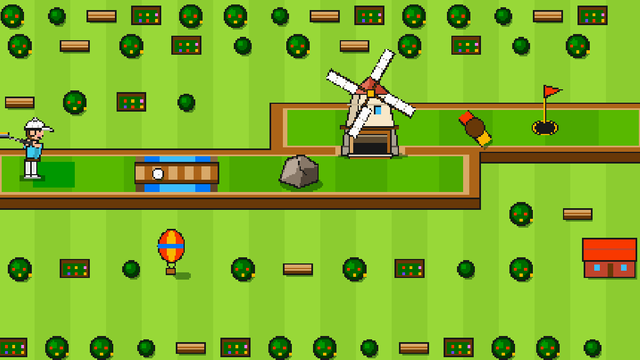
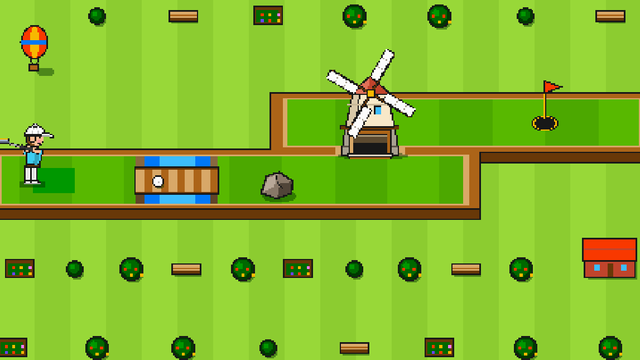
Mini Golf: no turning blades, calmer scenery, hole 5 has the windmill door in a wall, hole 4 has a ramp and a slide

diff --git a/docs/games/mini_golf.md b/docs/games/mini_golf.md
@@ -39,21 +39,21 @@ Rules and turns
 | REQ-MG-7 | **The winner** has the fewest strokes over all holes of the match. A tie is shown as a tie. The end is `open_results()` (REQ-GM-72) with the strokes as the score (fewer is better) and Try again, New game, Back to menu. | Done | smoke_golf |
 | REQ-MG-8 | **Pick up after 6 strokes.** When a player has played 6 strokes on a hole and the ball is not in, the ball is picked up with a soft message and the hole counts as 6 for that player. The player waits for the others. | Done | run_tests |
 | REQ-MG-9 | **Water.** A hole can have a lake that goes from one wall to the other, with a bridge over it. A ball that touches the water (not the bridge) makes a small splash, stops, and goes back to the place of the last putt (the putt counts as a stroke). Nothing more is taken away. | Done | run_tests |
-| REQ-MG-10 | **Edges.** A strong putt with a bad direction can leave the green. The wall brings the ball back (a bounce); the ball never leaves the course. A **hill** (owner, 2026-11-04) is a smooth bump across the whole width of the course, 0.12 m high in the middle (`hills` in `golf_holes.gd`): a ball that climbs it slows down (true physics, g = 9.8 m/s2, so a putt needs about 1.8 m/s at the foot to get over), a putt that does not make it rolls back down, and a ball that goes over speeds up again on the way down; the ball and the golfer are lifted by the height of the ground and the aim dots follow it. Holes 1, 3 and 5 have one. The windmill tower has a **door** that the ball goes through (owner, 2026-11-04: the idea of the windmill is a door the ball goes through, on the path to the hole): the tower is two pillars with a door of 0.30 m between them, the ball goes through the door along the across axis (up or down the screen), the door faces the camera, and the ball goes behind the door while it is inside the tower (hole 2: the near row and the far row are joined only by this door; hole 5: the door is in the middle of the tower). The windmill tower (its pillars), rocks and the turning blades (a bar that turns around its middle) are obstacles that bounce the ball. **There are no brick walls and no sliding barriers (owner, 2026-11-04: removed, and the holes were redone).** The turning blades are slow and short enough to pass: the free lane beside their circle is at least 0.2 m wide, and they turn at 2 rad/s or less (hole 2: 0.28 m long, 1.0 rad/s). Nothing is taken away for a bounce. | Done | run_tests |
+| REQ-MG-10 | **Edges.** A strong putt with a bad direction can leave the green. The wall brings the ball back (a bounce); the ball never leaves the course. A **hill** (owner, 2026-11-04) is a smooth bump across the whole width of the course, 0.12 m high in the middle (`hills` in `golf_holes.gd`): a ball that climbs it slows down (true physics, g = 9.8 m/s2, so a putt needs about 1.8 m/s at the foot to get over), a putt that does not make it rolls back down, and a ball that goes over speeds up again on the way down; the ball and the golfer are lifted by the height of the ground and the aim dots follow it. Holes 1, 3 and 5 have one. The windmill tower has a **door** that the ball goes through (owner, 2026-11-04: the idea of the windmill is a door the ball goes through, on the path to the hole): the tower is two pillars with a door of 0.30 m between them, the ball goes through the door along the across axis (up or down the screen), the door faces the camera, and the ball goes behind the door while it is inside the tower (hole 2: the near row and the far row are joined only by this door; hole 5: the same, in a wall across the second leg of the S). The windmill tower (its pillars) and the rocks are obstacles that bounce the ball. **There are no brick walls, no sliding barriers and no turning blades (owner, 2026-11-04: removed, and the holes were redone).** Nothing is taken away for a bounce. | Done | run_tests |
 | REQ-MG-11 | A player who leaves: the golfer and the ball go away, the turn goes to the next player, and the strokes stay in the result. When nobody is left the "No players connected" menu opens (REQ-GM-22). A lost phone pauses the game (REQ-GM-30). A phone that comes back keeps its slot (REQ-GM-30a). | Done | smoke_golf |
 
 Holes and settings
 
 | ID | Requirement | Status | Check |
 |----|-------------|--------|-------|
-| REQ-MG-12 | **Holes.** The game has **5 holes**, made in advance (pre-generated and saved as data, not made at run time). **Holes redone (2026-11-04, owner):** hole 1 is a hill and a rock; hole 2 two wide rows (1.1 m) joined by the windmill door, with a small rock and slow short blades; hole 3 a hill, a turn to the right, a rock and turning blades before the cup; hole 4 is unchanged (lake, bridge, rocks, blades); hole 5 an S with a hill, the windmill and blades. The brick walls and the sliding barriers are gone. **Hole 2 (2026-11-04):** two rows with a wall between them: the tee and a lake with a bridge in the near row, then the door of the windmill (the only way up into the far row), the turning blades and the cup in the far row (par 3). The settings view (REQ-GM-90) has a row "Holes" with 1 to 5 (default 3) and the Difficulty row. A match of N holes plays holes 1 to N in order. Every hole has its own par (2 to 4). The holes did not change with the new view (the data in `golf_holes.gd`, the sizes in course units: the longest hole, 5, is 3.3 by 5.5 course units with its walls and fits one screen at 250 px for a course unit). | Done | run_tests (hole data), smoke_golf |
+| REQ-MG-12 | **Holes.** The game has **5 holes**, made in advance (pre-generated and saved as data, not made at run time). **Holes redone (2026-11-04, owner):** hole 1 is a hill and a rock; hole 2 two wide rows (1.1 m) joined by the windmill door, with a small rock; hole 3 a hill, a turn to the right and a rock; hole 4 a lake with a bridge, two rocks, and a ramp up to a platform and a slide down (a `slide` hill, 0.14 m high) just before the cup; hole 5 an S with a hill and a rock in the first leg and a wall across the second leg with the windmill door in it (the only way down to the cup). The brick walls, the sliding barriers and the turning blades are gone. **Hole 2 (2026-11-04):** two rows with a wall between them: the tee and a lake with a bridge in the near row, then the door of the windmill (the only way up into the far row), the turning blades and the cup in the far row (par 3). The settings view (REQ-GM-90) has a row "Holes" with 1 to 5 (default 3) and the Difficulty row. A match of N holes plays holes 1 to N in order. Every hole has its own par (2 to 4). The holes did not change with the new view (the data in `golf_holes.gd`, the sizes in course units: the longest hole, 5, is 3.3 by 5.5 course units with its walls and fits one screen at 250 px for a course unit). | Done | run_tests (hole data), smoke_golf |
 | REQ-MG-13 | **Difficulty changes the help for aim and power only** (REQ-GM-96; all players have the same difficulty). Easy: a long aim line, and a weak swing still reaches a nearby hole. Medium: a short aim line. Hard: no aim line, only a small marker on the ground. The courses are the same on every difficulty. | Device | run_tests, golf_view (the length of the line), Device (Test 26 step 16e) |
 | REQ-MG-14 | **Medals** (REQ-GM-73): 1 player gets no medal (the tiers by strokes over par were removed, issue #119). For 2 to 4 players each row has the medal of its place. | Done | run_tests |
 | REQ-MG-15 | **No personal best in this version.** The key table of the profile (`profile_keys.gd`) has a limited size, and the saved number would be strokes (fewer is better). `best_key()` returns "". A key `mini_golf|<difficulty>|<holes>` can be added later. | Done | smoke_golf (`best_key()`) |
 | REQ-MG-16 | The golfer is a friendly kid with a white cap, white trousers and shoes and a shirt in the slot color, seen from the side and a little from above, facing the cup. He is small (about 160 px high, one size on every hole), stands left of the ball of the player on turn with the putter head at the ball, and stays where the putt started while the ball rolls. His swing is the same (`golf_look.gd` `aim_pose()` and `swing_pose()`). A full swing is animated: address, backswing (when the direction locks), downswing, hit, follow-through and finish, mixed smoothly. The putter has a dark grip, a steel shaft and a steel head with a gold top line. The animation is played by the TV when the swing is found; it is not a live copy of the arm (the detector reports a swing a few samples after the hit). The ball starts at once, and the phone buzzes (30 ms, a strong putt 60 ms). | Device | smoke_golf, Device (Test 26 steps 16f, 16g) |
 | REQ-MG-17 | Safety (REQ-GM-102, issue #79): Mini Golf is a swing game (`swing` in the registry). The settings view shows the safety line, each phone shows the card "HOLD ON TIGHT!" every time the settings view opens, and Start waits for the OK of every phone. | Done | swing_setup, ui_states_a |
 | REQ-MG-18 | **The view (2026-11-03, owner decision, `docs/MINI_GOLF_REDESIGN.md` option A; tilted on 2026-11-04).** The course is seen from the tee at the left to the cup at the right (hole 3 turns down) by a camera that is tilted, not straight above (owner, 2026-11-04, `GolfLook.TILT` 0.36): across the course (down the screen) every length is squashed to 0.36 of its length along the course, the wall slab is 0.09 course units high and shows its front face below the near edges, the windmill tower (0.62, a stone base with a door (a wooden frame and a stone step round a dark opening), a cream wooden tower with windows and a balcony, a red cap and four lattice sails in front of its top; redrawn 2026-11-04, the door and the sails are only a picture) and the rocks stand up from the ground, the cup is an ellipse, and the obstacles, the golfer and the ball are drawn from far to near (the flag and the aim line stay on top). The first hole was built first; the other holes use the same code and are to be checked on the screen. Each hole is scaled **once** (`GolfLook.Geo`): the whole hole with its walls is inside the 60 px margin, under the black bar (112 px) and above the chips of the bar (the room is 1800 by 820 px with one row of chips, 748 px with two), and one side of it fills the room; the scale is at least 200 px for a course unit (hole 3, the smallest, is 211). There is no perspective and no zoom: a course unit is as long near the tee as at the cup along the course (and 0.36 of it across), so nothing changes size while the players putt. The obstacles had no height until 2026-11-04 (owner, 2026-11-03: the front faces did not look right from straight above); now the tilt shows them: a rock is a grey boulder with a light and a dark side and a crack, a hill is a green bump across the course with a light side that rises, a dark side that falls and a cut at the near end, the flag is drawn on top of every obstacle so that the tower never hides it, a windmill its roof with blades that stay inside the block (the block is what the ball hits). The ball is **32 px** wide with its outline, an exception to REQ-GM-47m for this game (owner, 2026-11-03: 48 was too big; the cup is 64 px) on every hole, the cup is at least 8 px wider than the ball (it is the real cup of 0.2 course units, and never smaller than 64 px), the golfer is one size. The simulation, the rules and the hole data do not know the view. | Device | golf_view, smoke_golf_phones, Device (Test 26 steps 14d, 14e) |
-| REQ-MG-19 | **The park.** Scenery stands round the course as a border, smaller than before: trees, flower beds and benches along the free edges of the screen, and on a hole with room (holes 3 and 5) a clubhouse and a hot air balloon. It stands only outside the walls (44 px apart), never under the black bar or the chips, and never hides the course. The ground is the same for every hole; the course is drawn from the hole data (walls, mown stripes, tee mat, lake with stones, bridge, cup with a gold rim and a flag at its rim, rocks, hills, the windmill and turning blades) and is never mirrored in Hebrew (REQ-GM-47o). | Done | golf_view (the scenery), r4_golf |
+| REQ-MG-19 | **The park.** Scenery stands round the course as a border, smaller than before: trees, flower beds and benches along the free edges of the screen, and on a hole with room (holes 3 and 5) a clubhouse and a hot air balloon. It stands only outside the walls (44 px apart), never under the black bar or the chips, and never hides the course. The ground is the same for every hole; the course is drawn from the hole data (walls, mown stripes, tee mat, lake with stones, bridge, cup with a gold rim and a flag at its rim, rocks, hills and the windmill) and is never mirrored in Hebrew (REQ-GM-47o). | Done | golf_view (the scenery), r4_golf |
 
 ## Parameters
 
@@ -78,7 +78,6 @@ The song `mini_golf` starts with the first turn (no countdown, REQ-GM-35): a rel
 | REQ-MG-S1 | `golf_turn` | A turn starts. | Two soft notes | 60 ms for the player on turn |
 | REQ-MG-S2 | `golf_putt` | The ball is hit. | Soft "tok" | 60 ms for a hard putt (power above 0.6), 30 ms for a soft one |
 | REQ-MG-S3 | `golf_wall` | The ball touches a wall, a rock or a pillar of the windmill. | Quiet tok | none |
-| REQ-MG-S4 | `golf_blade` | The ball touches a turning blade. | Short rising blip | none |
 | REQ-MG-S5 | `golf_splash` | The ball falls in the lake. | Funny splash | none |
 | REQ-MG-S6 | `golf_hole` | The ball goes in the cup. | Rising three notes | 80 ms |
 | REQ-MG-S7 | `golf_ace` | A hole in one. | Rising six notes, brighter | 200 ms |

diff --git a/docs/AUTOMATED_TESTS.md b/docs/AUTOMATED_TESTS.md
@@ -317,7 +317,7 @@ Neither system has an Android job (the Actions job `build-android` exported noth
 | A-26-4a, 4b, 4d | Test 26 items 4a, 4b, 4d, the aim follows the turn, RECENTER, the turn before the turn starts | `smoke_golf_phones`: "20 degrees to the right aims +N rad, 20 degrees to the left aims N rad (4a)", "RECENTER: the aim of N rad is straight again after 0.5 s (4b)", "a phone turned N rad before its turn aims straight when the turn starts (4d)" |
 | A-26-5a, 5c, 5d | Test 26 items 5a, 5c, 5d, the putt power, one buzz for each putt, small moves | `smoke_golf_phones`: "soft < medium < hard in N of 5 groups by speed; soft rolls less than medium in N of 5 (hard reaches the end wall) (5a)", "5 putts buzz the phone 5 times (N) (5c)", "10 slow moves (1.5 m/s2) give no stroke and no lock (5d)" |
 | A-26-6a to 6c | Test 26 items 6a to 6c, the order of the turns, the balls that wait, a player that is in | `golf_rules`: "the turns go round in slot order", "a ball that is in leaves the round" (golf_rules), "the player who is in is skipped: 1, 3, 1 ..."; `smoke_golf`: "the next phone putts from the tee: every player has a ball of their own (REQ-MG-2)", "the ball of phone 1 waits where it stopped" |
-| A-26-7a to 7c, 7e, 7f | Test 26 items 7a to 7c, 7e, 7f, walls, rocks, the pillars of the windmill, hills, turning blades, the lake and the bridge | `golf_rules`: "hole N: a ball shot at the rock at (x, y) bounces from it", "hole N: a ball shot at the (brick wall or windmill block) bounces from it", "hole N: the ball never leaves the ground or enters a block", the rocks on 6 places and the blocks on holes 1, 2, 3, 5 / windmills on 2, 5, "hole N: the blade bounces the ball in N of 24 positions of the blade", "a ball that touches the lake stops with a splash (REQ-MG-9)", "a ball that rolls over the bridge crosses the lake (REQ-MG-9)", "hole N at time T: the cup is reachable in N strokes (par N)"; `smoke_golf`: "a ball in the water counts the stroke, goes back to the last spot and shows a splash (REQ-MG-9)"; `smoke_golf_phones`: "the banner of the water is 'SPLASH! TRY AGAIN FROM HERE' (7e)" |
+| A-26-7a to 7c, 7e, 7f | Test 26 items 7a to 7c, 7e, 7f, walls, rocks, the pillars of the windmill, hills, the ramp and the slide, the lake and the bridge | `golf_rules`: "hole N: a ball shot at the rock at (x, y) bounces from it", "hole N: a ball shot at the (brick wall or windmill block) bounces from it", "hole N: the ball never leaves the ground or enters a block", the rocks on 6 places and the blocks on holes 1, 2, 3, 5 / windmills on 2, 5, "hole N: the blade bounces the ball in N of 24 positions of the blade", "a ball that touches the lake stops with a splash (REQ-MG-9)", "a ball that rolls over the bridge crosses the lake (REQ-MG-9)", "hole N at time T: the cup is reachable in N strokes (par N)"; `smoke_golf`: "a ball in the water counts the stroke, goes back to the last spot and shows a splash (REQ-MG-9)"; `smoke_golf_phones`: "the banner of the water is 'SPLASH! TRY AGAIN FROM HERE' (7e)" |
 | A-26-8a, 8b, 8d, 8e | Test 26 items 8a, 8b, 8d, 8e, the pars, the words, the hole card and the next hole | `golf_rules`: "the five holes have the pars 2, 3, 3, 3 and 4 (8a)", "the words fit the par of the hole: par 2, par 4", "a hole in one is said", "one under par is a birdie", "par and bogey", "two over par or more has no words, only the number"; `smoke_golf_phones`: "the top right text of the 5 holes (8a)", "the card says 'Hole 1 done!' with 1 and 2 strokes and the totals 1 and 2 (8d)", "the card goes on to the next hole by itself after 4.0 s (8e)", "the totals go on to hole 2" |
 | A-26-9a to 9d | Test 26 items 9a to 9d, the help of Easy, Medium and Hard | `smoke_golf_phones`: "the aim line is N course units on Easy, Medium, Hard: Easy at least twice Medium, Hard has none (9a)", "'SWING FORWARD...' shows after the lock on Easy only (9b)", "the weakest swing rolls N m on Easy and N m on Medium (5 swings each): Easy at least twice (9c)", "hole 1 is the same on every level (9d)" |
 | A-26-10b | Test 26 item 10b, the medal of a 3 hole match alone | `smoke_golf_phones`: "8, 9, 11, 12, 14 and 15 strokes over 3 holes are the score of the player (10b)"; no medal for one player: A-11-7 |
@@ -397,7 +397,7 @@ Neither system has an Android job (the Actions job `build-android` exported noth
 | A-25-10c | Test 25 item 10c | `smoke_tennis_phones`: the round is 90 s and the result menu opens 2.2 s later (88 to 92 s after GO) |
 | A-26-3a, 3b, 3c, 3d | Test 26 items 3a, 3c, 3d and the shirt of 3b | `r4_golf`: at the start of a turn the course shows 1 golfer and 1 white ball with no ring and no halo, the ball of the player on turn only (also on the turn of phone 2); the shirt has the color of the phone on turn; the plate "<NAME>'S TURN!" covers neither the cup with its flag nor a ball (REQ-MG-3); the plate shows 1.0 to 2.0 s (it is `TURN_BANNER`, 1.5 s); the phone on turn shows "YOUR TURN" and the other phone "<NAME> IS PUTTING". The cap, the trousers and the shoes stay in 3b2 |
 | A-26-4c, 5b | Test 26 items 4c, 5b | `r4_golf`: the aim mark turns gold at the back swing (4c); the golfer swings back and through, and the ball starts to move at the hit (5b). Known bug (5b): the ball starts to move at swing age 0 while the club reaches it at 0.12 s, so that check fails |
-| A-26-7d | Test 26 item 7d | `r4_golf`: the turning blades of holes 2 to 5 leave a free lane of 0.2 m beside their circle and turn at 2 rad/s or less; the blades of hole 2 are short and slow (the sliding barriers were removed on 2026-11-04) |
+| A-26-7d | Test 26 item 7d | none: the sliding barriers and the turning blades were removed on 2026-11-04 (the checks of the gap and of the free lane went with them) |
 | A-26-8c, 8f | Test 26 items 8c, 8f | `r4_golf`: after the 6th stroke the banner "Picked up after 6 strokes" shows; the number in the bar equals the strokes counted by hand after every putt |
 | A-26-10a, 10c, 10d | Test 26 items 10a, 10c, 10d | `r4_golf`: the result menu of a match with 2 phones names the player with the fewest strokes ("<NAME> wins!", or "Tie!") and lists the players in the order of the strokes; Try again starts hole 1 with 0 strokes for every player; New game opens the settings view and Back to menu (on the next result menu) opens the Games screen |
 | A-MG-18, 19 | REQ-MG-2, 3, 4, 18, 19 (the view from above, 2026-11-03; what only a TV shows stays in Test 26 steps 14d and 14e) | `golf_view`: "hole N, R row(s) of chips: the course is inside x 60 to 1860 and y 112 to the chips" and "one side of the course fills the room" for the 5 holes with one and with two rows of chips; "a course unit is as long near the tee, far from it and across"; "the ball is 32 units wide and the cup wider"; "on a screen of half the size everything is half as big"; "the aim line of 3.0 and 1.2 course units is that long at the tee and near the cup", "Hard has the marker only", "stops at the wall"; "the ball is white, has no ring of a slot color and no halo, and is one ball wide"; "the plate covers neither the cup nor a ball nor the golfer" on every hole; "none of the park is on the course or in the bar or the chips", "the clubhouse and the balloon on holes 3 and 5"; `smoke_golf_phones`: "the golf ball is 32 units at 1080p on every hole, and the cup is wider"; "3 degrees from the cup the aim snaps to the cup", "14 degrees from the cup the aim does not snap", "A locks the aim: a turn of 25 degrees changes nothing", "a second press on A unlocks it", "an A that is held from before is not a press", "a press on A during the back swing does nothing" (REQ-MG-4), "only the ball of the player on turn is on the course"; `golf_rules`: "the ball and the aim mark stand on the 4-unit grid" |
@@ -515,7 +515,7 @@ a real device, but they make a regression show in CI before a person sees it. Th
 | `smoke_tennis_phones` | Tennis with simulated phone traces (2 and 4 phones): no name tags, no countdown with 2 players, the 3 s countdown alone, the hint line, the serve, the ring and the glow on the 3 levels, the banners, the 4-player scoreboard and places, the solo machine and its 90 s |
 | `smoke_golf_phones` | Mini Golf with simulated phone traces (2 phones): no name tags, the bar, the aim, the lock, RECENTER, the putt power, the buzzes, the help of the 3 levels, the 5 holes, the card, the medals and the pause |
 | `tennis_rules` (extended) | The chain from a sensor trace to the ball (serve, forehand, push, wide swing, 30 degree swings), the width of the green part, the power, Easy never out, the doubles court, the medal tiers |
-| `golf_rules` (extended) | Walls, rocks, the windmill with its door, hills and blades on every hole, a search that every hole can be played (hole 2 through the door), the pars, the words and the 6-stroke pick up |
+| `golf_rules` (extended) | Walls, rocks, the windmill with its door, hills and slides on every hole, a search that every hole can be played (holes 2 and 5 through the door), the pars, the words and the 6-stroke pick up |
 | `golf_view` | The view of Mini Golf without a screen (REQ-MG-18, 19): one scale for each hole, the hole inside the room between the black bar and the chips, one size for the ball and the cup, the length of the aim line, balls that lie on each other drawn apart, the banner plate away from the cup, the park outside the course |
 | `sheep_rules` (unit), `smoke_sheep` (scenario) | Sheep Herding: the fence and the gate, the flee, graze and flock rules, the pen, the scenery, the pictures, the difficulty table; then settings, start, tilt, shared score, team chip, the end, solo medals, a player that leaves, the layout and Restart |
 | `bumper_rules` (unit), `smoke_bumper_cars` (scenario) | Bumper Cars: the rink sizes and star counts of the difficulties, the start places, the stars on the floor and the new stars, whether a bump is a hit (the speed limit; a hit takes no star), the pick-ups, the pictures (star, cars in 4 directions, shadow, contrast); then settings (2 to 4 players), start, countdown, tilt, picking up a star, hits and their buzz and sounds, the pair gap, the end and the tie, a player that leaves, the layout and Restart |
@@ -538,7 +538,7 @@ a real device, but they make a regression show in CI before a person sees it. Th
 | `r4_asteroid` (tv) | Star Shield: the ship at both sides of the play area, "Reached wave N". One known-bug check (the 2 % to 4 % edge) |
 | `r4_bowling` (tv) | Pin Pals: the total of whole games, Frame 10/10 and the time to the result menu, rails, the plate, scores and places, the winner, YOUR TURN and the buzz, a player that leaves, the pin height and the disco wall. Three known-bug checks (3.8 s, the plate time, the double buzz) |
 | `r4_tennis` (tv) | Tennis: no chip before the first point, the toss, the runs, GREAT!, far shots, the places, the rally count. The sparks, the place of the other team and the time to a new rally are plain checks |
-| `r4_golf` (tv) | Mini Golf: what is drawn at a turn, the plate, the lines on two phones, the aim mark, the swing, the free lane beside the blades, the 6-stroke banner, the strokes in the bar, the result menu and its buttons. One known-bug check (the ball starts too early) |
+| `r4_golf` (tv) | Mini Golf: what is drawn at a turn, the plate, the lines on two phones, the aim mark, the swing, the 6-stroke banner, the strokes in the bar, the result menu and its buttons. One known-bug check (the ball starts too early) |
 | `pixel_games` (render lane, NOT in `tests/suites.txt`, no coverage) | Tests 22, 23, 25, 26: the main colors of the 4 newest tiles are colors of the game screen, and the Star Shield world is made of whole pixels. Run it like `pixel_render` under `xvfb-run` at 1920x1080. CI: the job `pixels` runs it after `pixel_render` |
 
 ## What stays manual, and why

diff --git a/docs/MANUAL_TESTS.md b/docs/MANUAL_TESTS.md
@@ -102,7 +102,7 @@ Tests the user has to run now (status on 2026-11-01 after run R5; the list is in
 | 29 | **New game.** Sheep Herding with 1 to 4 phones: the tile against the game, a tester points at the gate, an adult herds all the sheep in the time (4 and 6a), the FPS with 1 phone on the TV box, a child of 5 to 8 years, the how-to line, the Hebrew texts. The tilt times, how the sheep run, the buzz and the dog size are automated (A-29-*) | Sheep Herding was added on 2026-10-23 (`docs/games/sheep_herding.md`, issue #98). Needed before it is merged. All values (dog speed, the scare distance, the sheep speed, the gate, the time of a round), the pictures, the song and the Hebrew texts are first guesses; a Hebrew reader checks the 7 new texts |
 | 28 | **New game.** Whack-a-Mole with 1 to 4 phones: the tile against the game, a tester points at the holes and the golden mole, the delay of a bonk at 240 fps (4b), the settings view, the FPS with 1 phone on the TV box, a child of 5 to 8 years, the pixel look from the sofa. The ring on the 9 holes, the bonk, a miss, the time a mole stays, the golden mole and the medals are automated (A-28-*) | Whack-a-Mole was added on 2026-10-23 (`docs/games/whack_a_mole.md`). Needed before it is merged. All values (the stay, the spawn time, the hit circle, the points), the pictures, the song and the Hebrew texts are first guesses |
 | 27 | **New game and the first bot.** Air Hockey with 1 to 4 phones: the tile against the game, the delay of the mallet at 240 fps (3b), the pixel look, the dark gray rails on the black floor (11d) and the black puck from the sofa, a grown-up against ROBO on Easy (5 matches) and Hard (3 matches), the FPS with 1 phone on the TV box, a child of 5 to 8 years, Hebrew. The enroll screen, the tilt, the puck, the goals, ROBO's purple color, a lost phone and the result menus are automated (A-27-*) | Air Hockey and ROBO were added on 2026-10-23 (`docs/games/air_hockey.md`, REQ-GM-105, 106). Needed before they are merged. All values (the mallet and puck physics, the goal size, the levels of ROBO), the pictures, the song, the effects and the Hebrew texts are first guesses |
-| 26 | **New game.** Mini Golf with 1 to 4 phones: the aim by turning the phone and its lock at the back swing, the power of soft, medium and hard putts and the delay, the turns, the 5 holes (walls, rocks, hills, turning blades, windmill with a door, lake and bridge), the words (birdie, par, bogey, hole in one, picked up), Easy, Medium and Hard help, the medal, a player that leaves, a child of 5 to 8 years, the pixel look from the sofa, the view from above, the white ball of the player on turn (steps 14d and 14e, new on 2026-11-03), light swings (step 16j, 2026-11-03) | Mini Golf was added on 2026-10-17 (`docs/games/mini_golf.md`); its view was redesigned on 2026-11-03 (`docs/MINI_GOLF_REDESIGN.md`). Needed before it is merged. It uses the swing detector of tests 23 and 24, so run test 24 first. All values (swing thresholds, putt speeds, friction, the hole designs), the pictures, the song and the Hebrew texts are first guesses |
+| 26 | **New game.** Mini Golf with 1 to 4 phones: the aim by turning the phone and its lock at the back swing, the power of soft, medium and hard putts and the delay, the turns, the 5 holes (walls, rocks, hills, a ramp and slide, windmill with a door, lake and bridge), the words (birdie, par, bogey, hole in one, picked up), Easy, Medium and Hard help, the medal, a player that leaves, a child of 5 to 8 years, the pixel look from the sofa, the view from above, the white ball of the player on turn (steps 14d and 14e, new on 2026-11-03), light swings (step 16j, 2026-11-03) | Mini Golf was added on 2026-10-17 (`docs/games/mini_golf.md`); its view was redesigned on 2026-11-03 (`docs/MINI_GOLF_REDESIGN.md`). Needed before it is merged. It uses the swing detector of tests 23 and 24, so run test 24 first. All values (swing thresholds, putt speeds, friction, the hole designs), the pictures, the song and the Hebrew texts are first guesses |
 | 25 | **New game.** Tennis with 1 to 4 phones: the two-phase swing (back, then forward; step 16h, 2026-11-03), the safety card with 3 children of 5 to 8 years (15c, 2026-10-30), toss with A and a serve swing from top to bottom, the hit window (the ring on the court, green and yellow, early and late swings), power and left or right aim, the characters that run by themselves, the ball and its shadow from the sofa, Real and Quick scoring, 2 against 1 and 2 against 2, the machine rally alone (medals), a player that leaves, a child of 5 to 8 years | Tennis was added on 2026-10-17 (`docs/games/tennis.md`). Needed before it is merged. It uses the swing detector of tests 23 and 24, so run test 24 first. All values (the hit window, the green zone, the ball speeds), the pictures, the song and the Hebrew texts are first guesses |
 | 24 | **New (swing detector for Tennis).** Debug overlay with 1 to 2 phones: no swing when still or walking, strokes (back, then forward) found with a power that grows from soft to hard, a serve from top to bottom says DOWN and a stroke from left to right does not, one swing for swing and back, a tap or shake is not a swing (also a sideways move or a slow shake, which the forward ratio rejects since 2026-10-29, issues #141 and #142), a sharp push counts, the side value of a swing to the left and to the right, the delay in ms, an iPhone | The Pin Pals swing detector was moved to `scripts/input/` and used for Tennis on 2026-10-17 (`docs/games/tennis.md`, REQ-TN-5 to 9). Needed before Tennis is built on it. Every threshold and the forward ratio (`FWD_RATIO`, 2026-10-29) is a first guess and is tuned from this test |
 | 23 | **New game.** Pin Pals (bowling) with 1 to 4 phones: the aim strip (a finger slides the ball, changed 2026-10-20), the swing that throws (different grips, a soft swing, a hard swing, accidental throws; changed 2026-10-29, issues #141 and #142: a sideways move or a slow shake must not throw, a soft swing must, by the forward ratio of REQ-BW-5 and REQ-BW-6), the knob, trail and tick of the aim strip (3h, 2026-10-30), the standard rules and the score sheet, Rails, the wait with 4 players, a leave and a lock during a turn, a child of 5 to 8 years, the pixel look from the sofa | Pin Pals was added on 2026-10-16 (`docs/games/bowling.md`). Needed before it is merged. It was only tested with made-up sensor values (the thresholds and the forward ratio `FWD_RATIO` were tuned on 2026-10-29 with made-up series only): the swing thresholds, the strip size, the ball speeds, the pictures, the song, the effects and the Hebrew text are first guesses |
